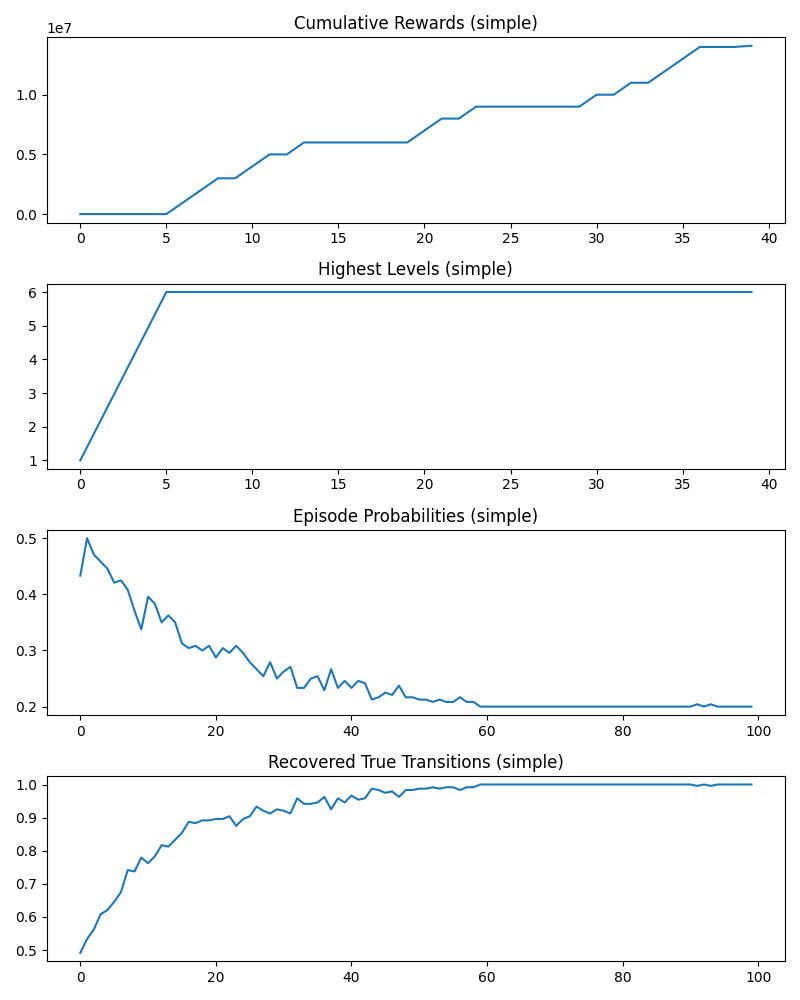
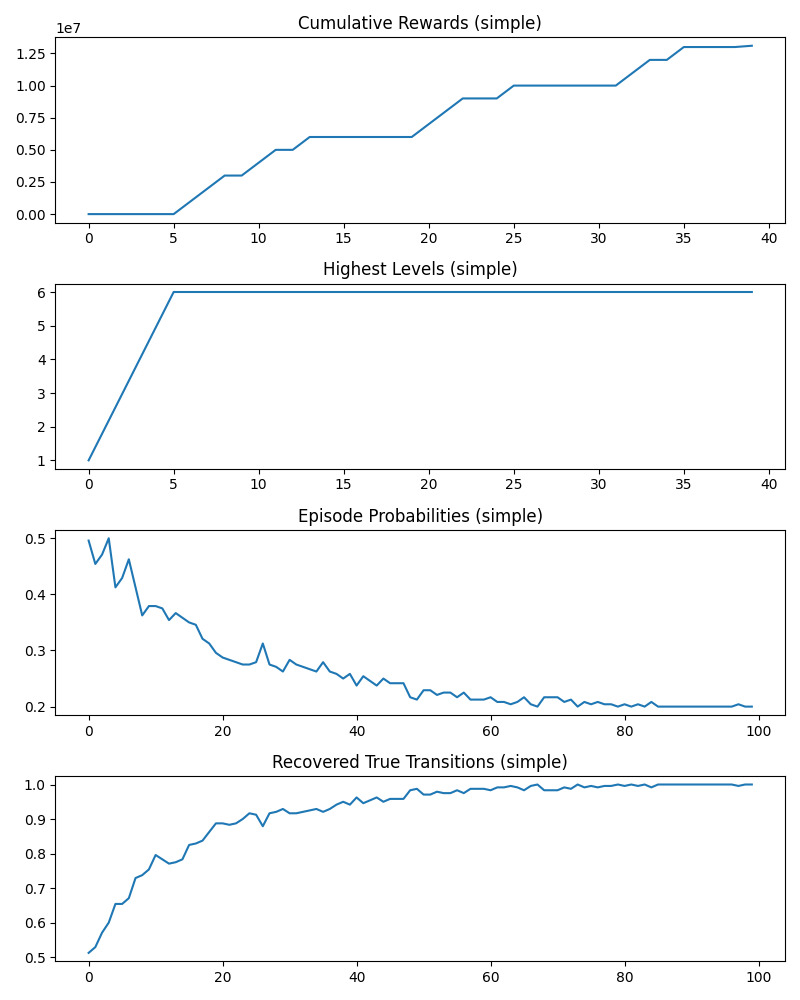
wip - debug pcfg agent

diff --git a/exp2/python/learner.py b/exp2/python/learner.py
@@ -214,20 +214,38 @@ def run_pcfg_condition(condition, num_episodes=10, num_actions=40):
     # Prep for ground truth measure
     true_transitions =  np.array([task_func(task, pair) for pair in norm_pairs]).astype(int)
 
-    # Run base PSRL agent
+    # Run PCFG PSRL agent
     for episode in range(num_episodes):
 
+        if len(prior_mdps) == 0:
+            print("No valid prior MDPs left.")
+            break
+
         # Sample from the prior
-        counts =prior_mdps['count']
+        counts = prior_mdps['count']
         norm_probs = counts / counts.sum()
-        scaled_probs = softmax(norm_probs, tau=0.1)
+        scaled_probs = norm_probs #softmax(norm_probs, tau=0.01)
 
         prior_mdp_index = np.random.choice(prior_mdps.index, size=1, p=scaled_probs)[0]
         sampled_transitions = prior_mdps.loc[prior_mdp_index][pair_columns].to_numpy()
 
-        # Compute stats
-        epi_probs[episode] = sum(sampled_transitions)/len(sampled_transitions)
+        # # Compute stats
+        # epi_probs[episode] = sum(sampled_transitions)/len(sampled_transitions)
         recover_rate[episode] = (true_transitions == sampled_transitions).sum() / len(sampled_transitions)
+
+        # Compute expected loss
+        all_transitions = prior_mdps[pair_columns].to_numpy()
+        mdp_probs = np.sum(all_transitions, axis=1) / all_transitions.shape[1]
+        recovery_matches = (all_transitions == true_transitions).sum(axis=1) / all_transitions.shape[1]
+    
+        weights = prior_mdps['count'].to_numpy()
+        weights = weights / weights.sum()
+    
+        expected_prob = np.sum(mdp_probs * weights)
+        expected_recovery_rate = np.sum(recovery_matches * weights)
+
+        epi_probs[episode] = expected_prob
+        recover_rate[episode] = expected_recovery_rate
 
         # Prepare for the episode
         state_objs = norm_objs.copy()
@@ -239,13 +257,14 @@ def run_pcfg_condition(condition, num_episodes=10, num_actions=40):
         max_level = 0
         for t in range(num_actions):
             action = policy(num_actions - t, state_objs, state_levels, sampled_transitions)
+            if t > 0:
+                cum_rewards[episode, t] = cum_rewards[episode, t-1] + get_reward(action)
+            
             if action is None:
-                cum_rewards[episode, t] = cum_rewards[episode, t-1]
-                highst_levels[episode, t] = highst_levels[episode, t-1]    
+                if t > 0:
+                    highst_levels[episode, t] = highst_levels[episode, t-1]
+            
             else:
-                #actions[episode, t] = action
-                reward += get_reward(action)
-                cum_rewards[episode, t] = max(cum_rewards[episode, t-1], reward)
 
                 (_, state_objs, state_levels, regeneratable) = update_states(task, action, num_actions - t, state_objs, state_levels, regeneratable)
 
@@ -264,8 +283,16 @@ def run_pcfg_condition(condition, num_episodes=10, num_actions=40):
                     pair_column = f'pair_{pair_idx}'
 
                     # remove inconsistent entries from prior_mdps
-                    if task_func(task, (norm_m, norm_n)) is False:
+                    if task_func(task, (norm_m, norm_n)) == False:
                         prior_mdps = prior_mdps[prior_mdps[pair_column] == 0]
+                    # else:
+                    #     # with some probability, remove inconsistent entries
+                    #     if np.random.rand() < 0.1:
+                    #         prior_mdps = prior_mdps[prior_mdps[pair_column] == 1]
+                        
+                    if len(prior_mdps) == 0:
+                        print("No valid prior MDPs left.")
+                        break
 
                     # if task_func(task, (norm_m, norm_n)):
                     #     prior_mdps = prior_mdps[prior_mdps[pair_column] == 1]
@@ -380,10 +407,10 @@ plot_results(condition, 'base', cum_rewards, highst_levels, epi_probs, recover_r
 
 
 # %%
-condition, cum_rewards, highst_levels, epi_probs, recover_rate = run_pcfg_condition("simple", num_episodes=10, num_actions=40)
+condition, cum_rewards, highst_levels, epi_probs, recover_rate = run_pcfg_condition("simple", num_episodes=50, num_actions=40)
 plot_results(condition, 'pcfg', cum_rewards, highst_levels, epi_probs, recover_rate)
 
-condition, cum_rewards, highst_levels, epi_probs, recover_rate = run_pcfg_condition("med", num_episodes=10, num_actions=40)
+condition, cum_rewards, highst_levels, epi_probs, recover_rate = run_pcfg_condition("med", num_episodes=50, num_actions=40)
 plot_results(condition, 'pcfg', cum_rewards, highst_levels, epi_probs, recover_rate)
 
 condition, cum_rewards, highst_levels, epi_probs, recover_rate = run_pcfg_condition("hard", num_episodes=10, num_actions=40)
@@ -392,10 +419,16 @@ plot_results(condition, 'pcfg', cum_rewards, highst_levels, epi_probs, recover_r
 
 
 # %%
-episodes = 100
+newrun = False
+episodes = 50
 max_retries = 5
-all_results = {}    
-for agent in ['base', 'pcfg']:
+if newrun:
+    all_results = {}
+    agents_to_run = ['base', 'pcfg']
+else:
+    agents_to_run = ['pcfg']
+
+for agent in agents_to_run: 
     all_results[agent] = {}
     for condition in ["simple", "med", "hard"]:
         for attempt in range(max_retries):
@@ -425,7 +458,7 @@ measures = ['cum_rewards', 'highst_levels', 'epi_probs', 'recover_rate']
 conditions = ['simple', 'med', 'hard']
 agents = ['base', 'pcfg']
 num_actions = 40
-# %%
+
 fig, axes = plt.subplots(nrows=4, ncols=2, figsize=(12, 16), sharex=True)
 for col, agent in enumerate(agents):
     for row, measure in enumerate(measures):
@@ -469,7 +502,11 @@ for col, agent in enumerate(agents):
             ax.legend(title="Condition", loc='upper right')
 
 plt.tight_layout()
-plt.savefig(f"both_combined_results.png")
+# plt.savefig(f"both_combined_results.png")
+
+
+
+
 # %%
 def run_all_conditions_parallel(agent='base'):
     conditions = ["simple", "med", "hard"]

diff --git a/exp2/python/pcfg.py b/exp2/python/pcfg.py
@@ -184,6 +184,9 @@ new_df.to_csv('tree_mdps.csv', index=False)
 
 # %%
 # out of curiosity, check if the ground truths are covered
+
+new_df = pd.read_csv('tree_mdps.csv')
+
 def simple_task (pair):
     (m, n) = pair
     return m[0] == n[0]
@@ -203,12 +206,13 @@ hard_mdp = [hard_task(pair) for pair in norm_pairs]
 def check_ground_truth(df, ground_truth):
   for _, row in df.iterrows():
     if all(row[f'pair_{j}'] == ground_truth[j] for j in range(len(ground_truth))):
+      print(f"Row {row.index}: {row['string']}, covers the ground truth.")
       return True
   
   return False
 
-simple_covered = check_ground_truth(new_df, simple_mdp)
+# simple_covered = check_ground_truth(new_df, simple_mdp)
 med_covered = check_ground_truth(new_df, med_mdp)
-hard_covered = check_ground_truth(new_df, hard_mdp)
+# hard_covered = check_ground_truth(new_df, hard_mdp)
 
 # %%
